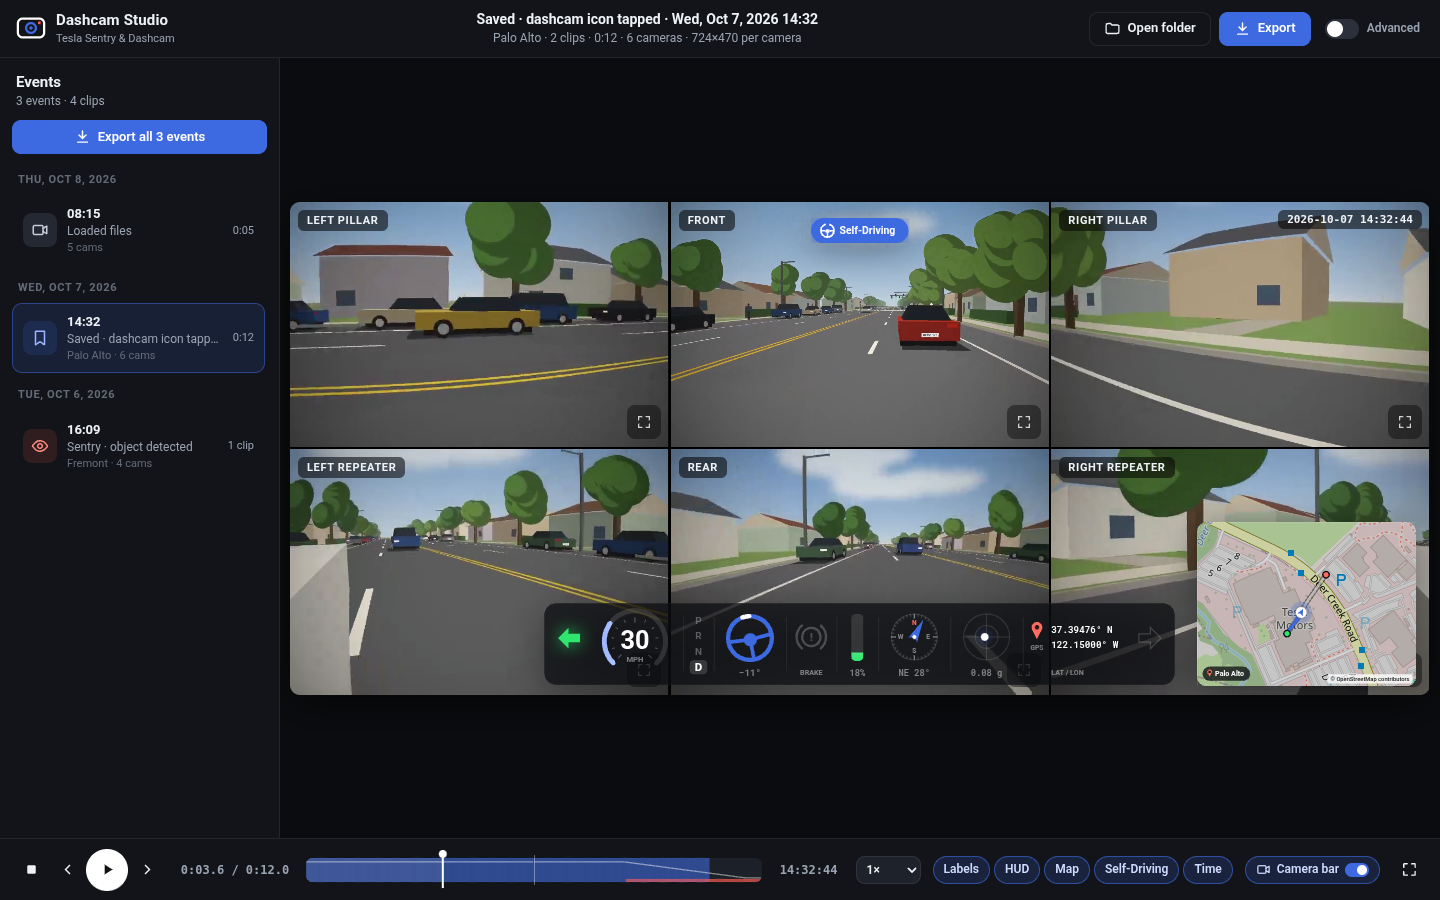
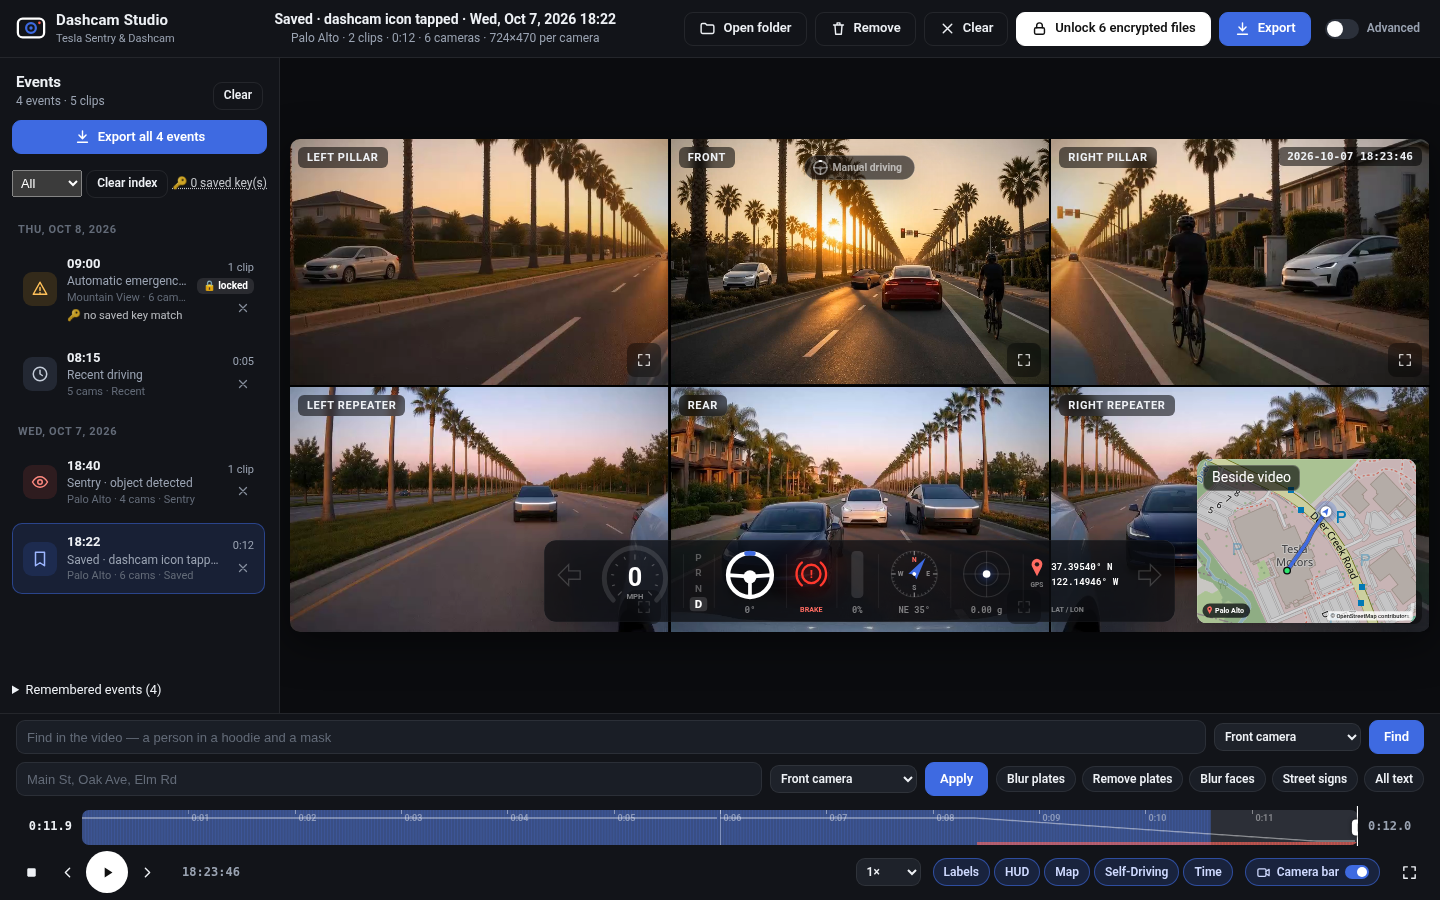
README: refresh v2 screenshots (unlock dialog, locked/unlocked, connector badge, library index)

diff --git a/README.md b/README.md
@@ -163,6 +163,14 @@ Tick **Remember keys on this device** in the dialog to store each clip's key in 
 
 ![Unlock dialog](screenshots/photo-unlock.png)
 
+![Locked event: encrypted cameras, the sidebar's All/Undecrypted/Decrypted filter, and "0 saved key(s)"](screenshots/07-encrypted-locked.png)
+
+![Mock dashcam.tesla.com with the connector v1.4.3 badge: keys sent back to Dashcam Studio](screenshots/09-mock-tesla-connector.png)
+
+![Unlocked and playing: the top button now reads 🔑 Keys (6 saved)](screenshots/10-encrypted-unlocked-playing.png)
+
+![Remembered events panel in the library sidebar](screenshots/photo-library-index.png)
+
 ### Troubleshooting
 - **"Connector not detected"** after 20 s: there's no badge on the Tesla page, so the script isn't running. Recheck *Allow user scripts* (Chrome) or the Userscripts extension and site permission (Safari), and remove duplicate or old copies.
 - **Safari, no badge:** turn on Safari ▸ Settings ▸ Advanced ▸ **Show features for web developers**, then on the Tesla tab choose Develop ▸ **Show JavaScript Console**, reload, and look for lines starting with `[DashcamStudio]`. No `connector 1.4.3 starting` line means Userscripts isn't injecting it.
